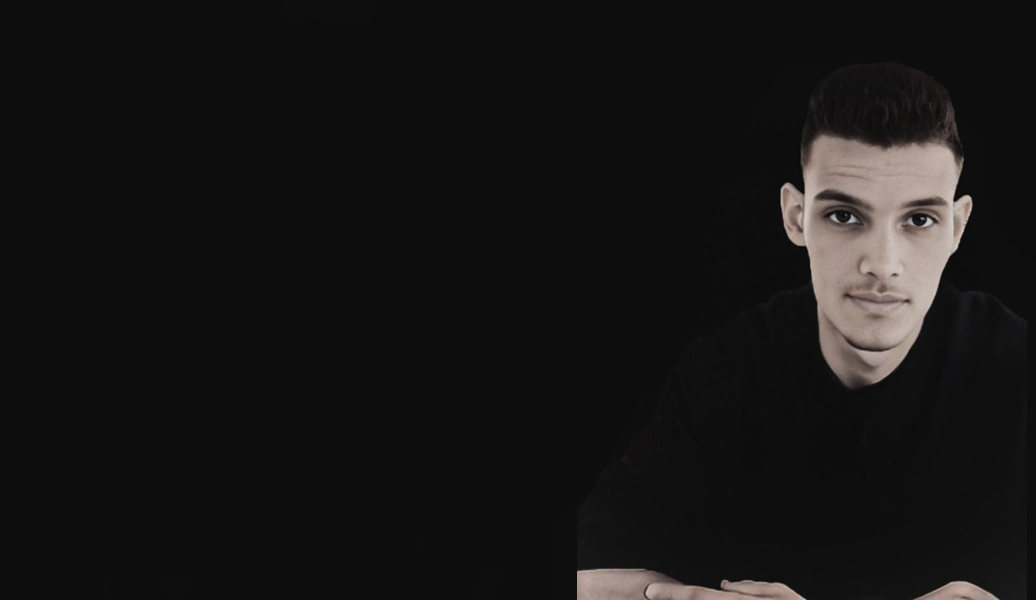
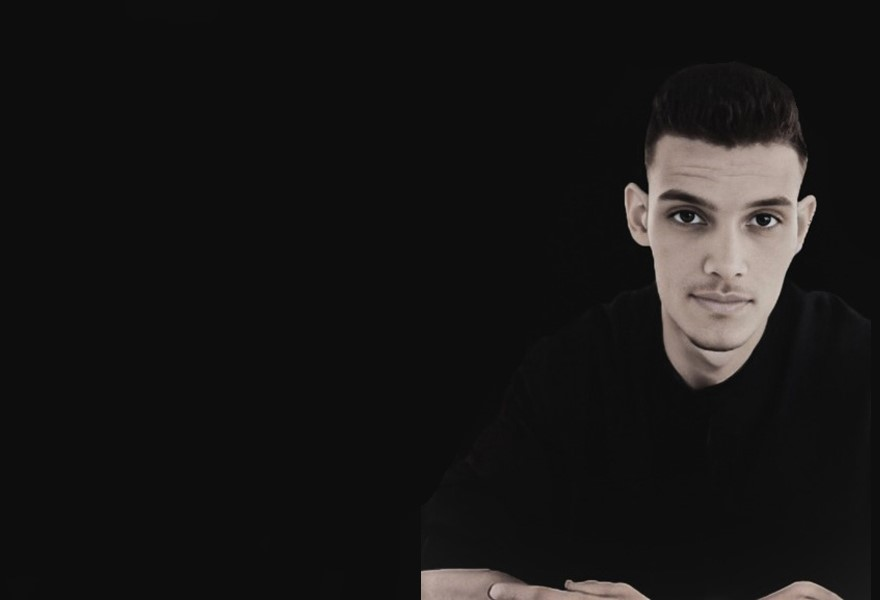
update background header image

Changed region(s): [[0.7057, 0.15, 0.9511, 0.66], [0.4602, 0.93, 0.7977, 1.0], [0.8591, 0.96, 0.9818, 1.0]]

diff --git a/index.html b/index.html
@@ -9,7 +9,7 @@
     <meta name="keywords" content="">
     <meta name="author" content="Awaiken Theme">
 	<!-- Page Title -->
-	<title>Oussema Mansouri Portfolio</title>
+	<title>Oussama Mansouri Portfolio</title>
 	<!-- Google Fonts css-->
 	<link href="https://fonts.googleapis.com/css?family=Berkshire+Swash%7CRoboto:300,400,400i,500,500i,700,700i,900" rel="stylesheet">
 	<!-- Bootstrap css -->
@@ -49,7 +49,7 @@
 			<div class="container">
 				<!-- Navbar Brand start -->
 				<a class="navbar-brand" href="#">
-					<h1><span>M.</span>Oussema</h1>
+					<h1><span>M.</span>Oussama</h1>
 				</a>
 				<!-- Navbar Brand end -->
 				
@@ -143,7 +143,7 @@
 				<div class="col-lg-8">
 					<!-- About Content start -->
 					<div class="about-content wow fadeInUp" data-wow-delay="0.8s">
-						<h3>I'm Oussema Mansouri</h3>
+						<h3>I'm Oussama Mansouri</h3>
 						<p>Since the beginning of my journey as a freelance developer nearly 3 years ago, I've done remote work for agencies, and collaborated with talented people to create digital products for both personal and commercial use.</p>
 						
 						<p>I love interactive design, developing and building web applications.</p>
@@ -1168,7 +1168,7 @@
 				<div class="col-md-12">
 					<!-- Footer Logo start -->
 					<div class="footer-logo">
-						<h1><span>Oussema</span> Mansouri</h1>
+						<h1><span>Oussama</span> Mansouri</h1>
 					</div>
 					<!-- Footer Logo end -->
 					

diff --git a/css/custom.css b/css/custom.css
@@ -284,7 +284,7 @@ header .navbar.sticky-header{
     top: 0px;
     left: 0;
     width: 100%;
-    background: url(../images/header-section-image2.jpg) no-repeat top center;
+    background: url(../images/header-section-image3.jpg) no-repeat top center;
     background-size: cover;
     padding: 220px 0 120px;
 }
